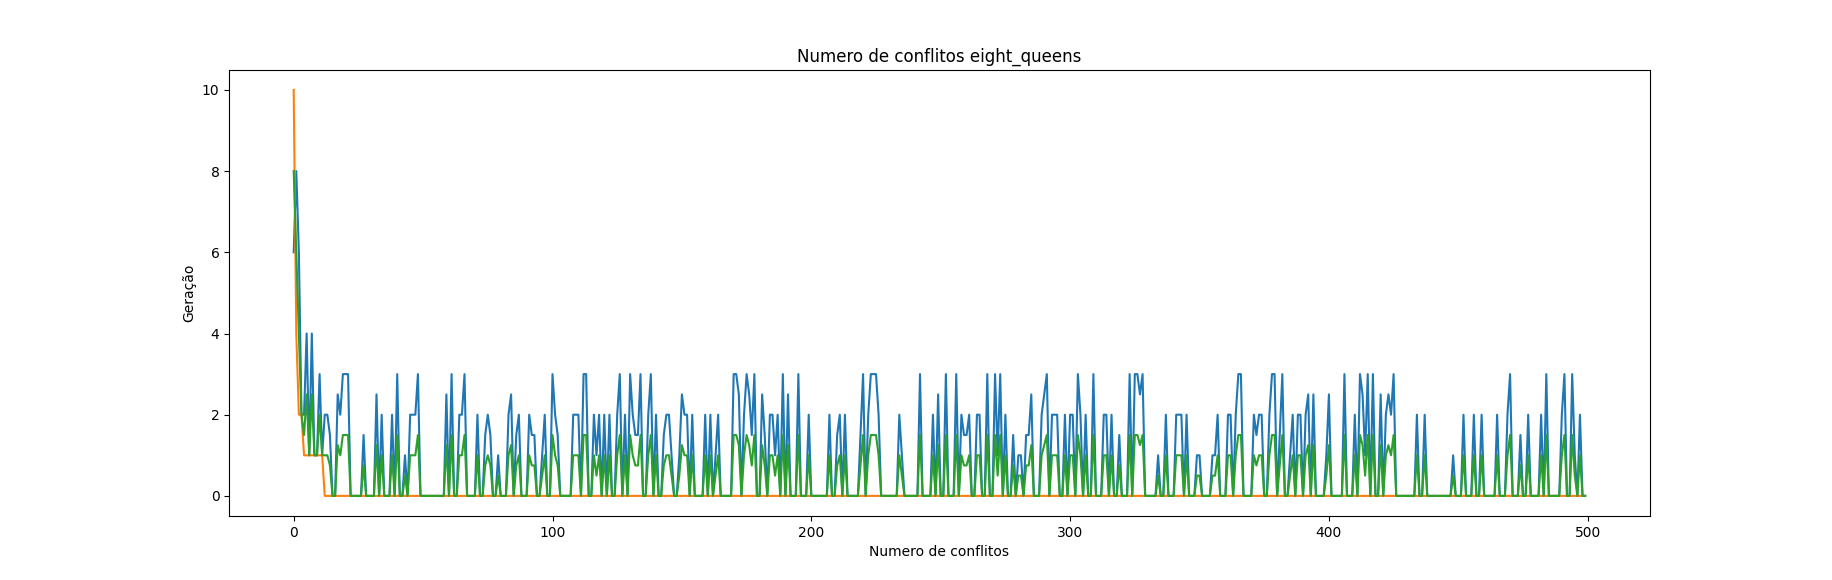
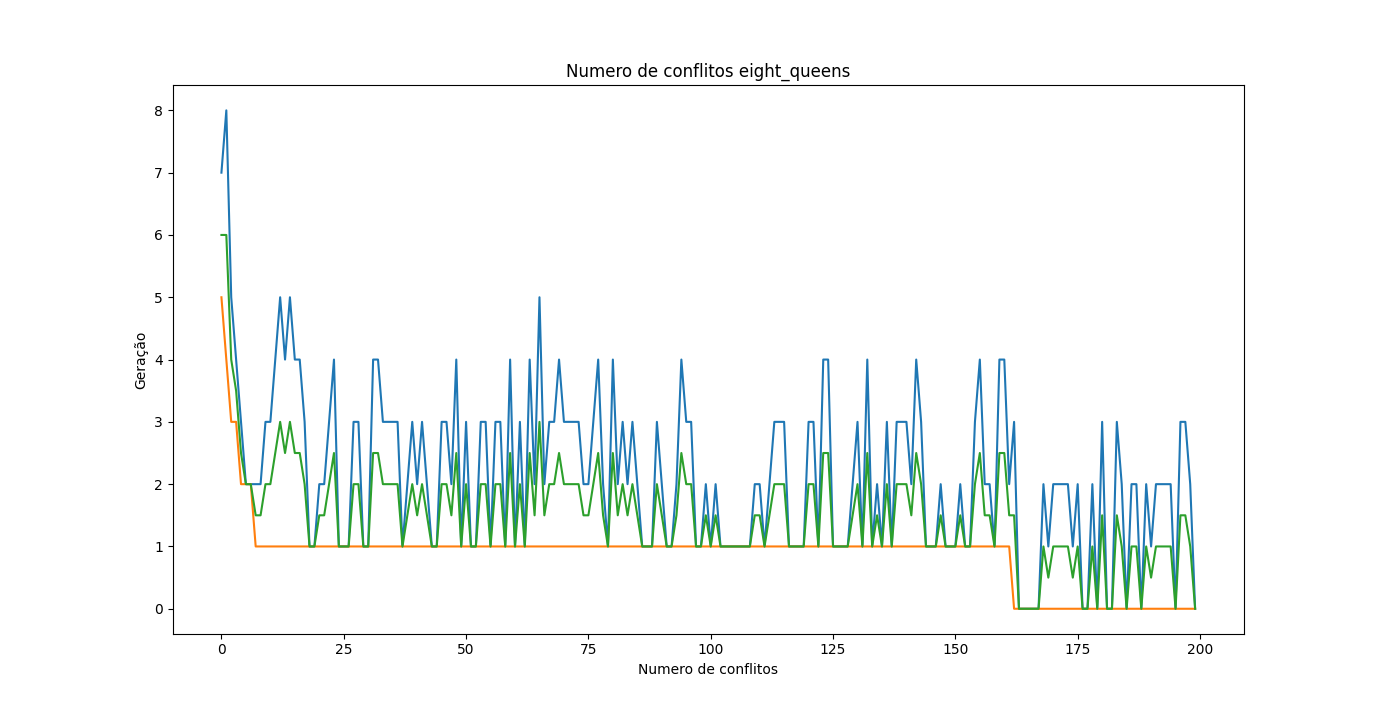
Versão final
- Bug do "0.5 colisões" resolvido
- Parâmetros do algoritmo ga definidos

Changed region(s): [[0.1245, 0.1552, 0.9023, 0.9621], [0.1245, 0.0621, 0.9023, 0.1241], [0.0933, 0.4655, 0.1245, 0.5586]]

diff --git a/eight_queens.py b/eight_queens.py
@@ -35,7 +35,7 @@ def verifica_diagonal(x, individual):
     # sentido / cima
     y = individual[x]+1
     xNovo = x+1
-    while (xNovo < len(individual) and y < len(individual)+1):
+    while (xNovo < len(individual) and y <= len(individual)):
         if individual[xNovo] == y:
             ataques +=1
         y += 1
@@ -44,7 +44,7 @@ def verifica_diagonal(x, individual):
     # sentido \ cima
     y = individual[x]+1
     xNovo = x-1
-    while (xNovo > 0 and y < len(individual)+1):
+    while (xNovo >= 0 and y <= len(individual)):
         if individual[xNovo] == y:
             ataques +=1
         y += 1
@@ -76,6 +76,9 @@ def evaluate(individual):
         total_ataques += verifica_linha(x, individual)
         total_ataques += verifica_diagonal(x, individual)
     
+    if total_ataques%2 != 0:
+        r = 1
+
     return total_ataques/2
 
 
@@ -206,13 +209,9 @@ def run_ga(g, n, k, m, e):
 
 
 if __name__ == "__main__":
-    melhor_individuo = run_ga(500, 30, 30, 0.5, True)
+    melhor_individuo = run_ga(200, 30, 30, 0.75, True)
     print(melhor_individuo)
     print(evaluate(melhor_individuo))
-
-    print(conflitos_grafico_max)
-    print(conflitos_grafico_min)
-
 
     plt.figure(figsize=(6, 2))
     plt.plot(geração_grafico,conflitos_grafico_min,geração_grafico, conflitos_grafico_max, geração_grafico,conflitos_grafico_med)

diff --git a/README.md b/README.md
@@ -13,10 +13,10 @@
 
 Valores dos parâmetros do algoritmo genético
 
-- g = 100
-- n = 40
-- k = 2
-- m = 0.3
+- g = 200
+- n = 30
+- k = 30
+- m = 0.75
 - e = True
 
 ---
